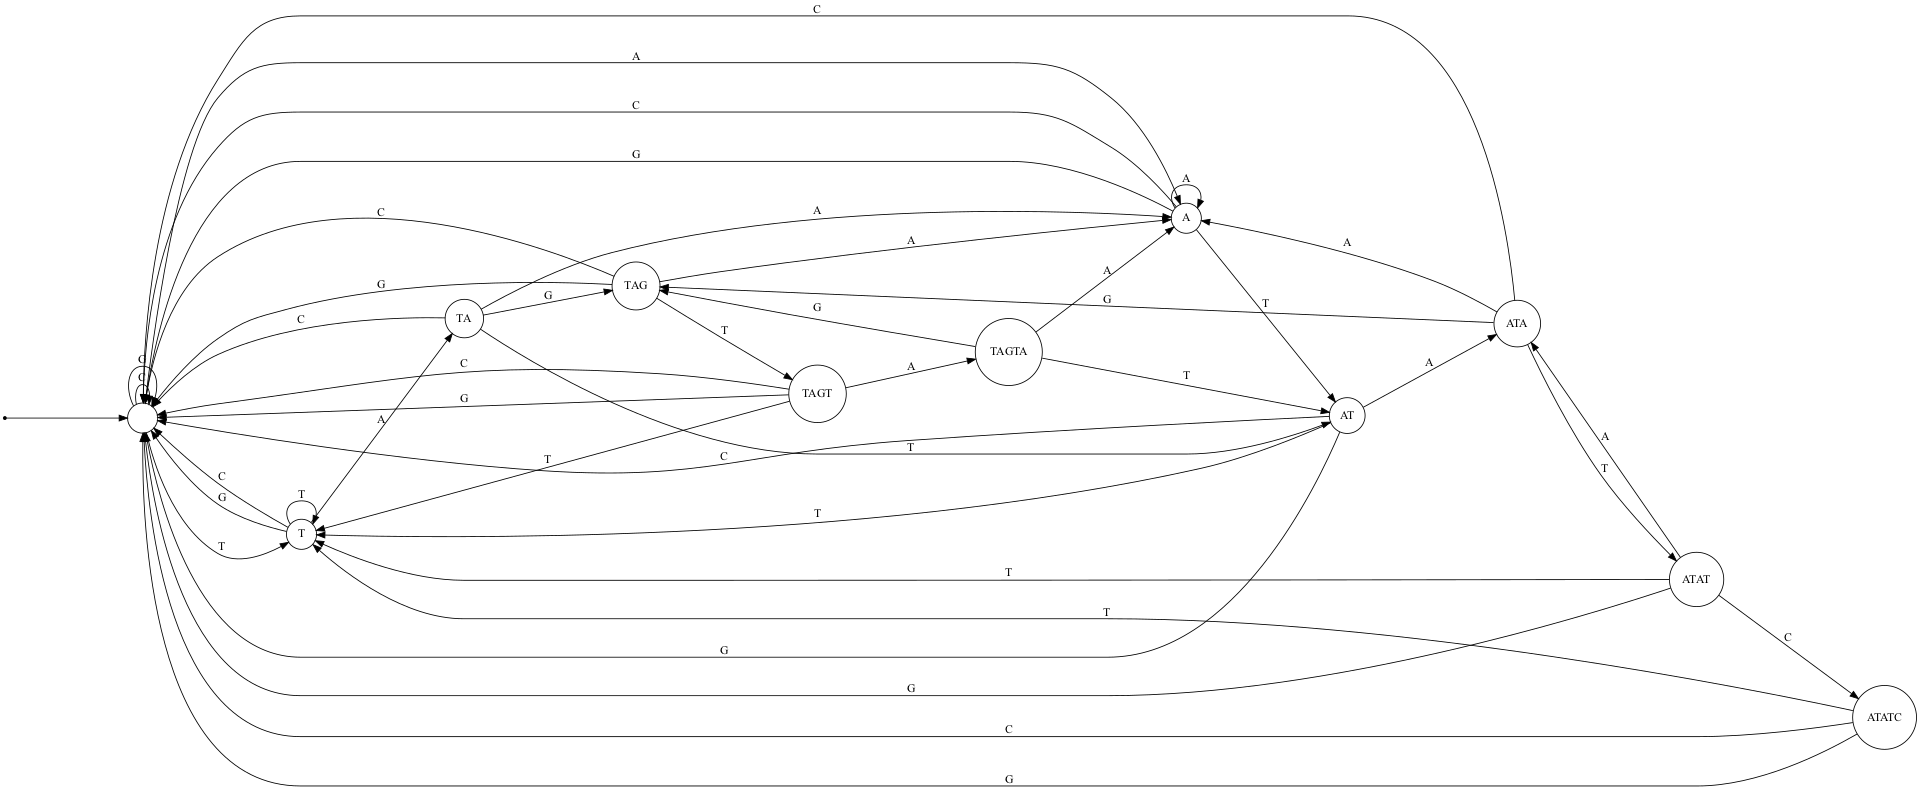
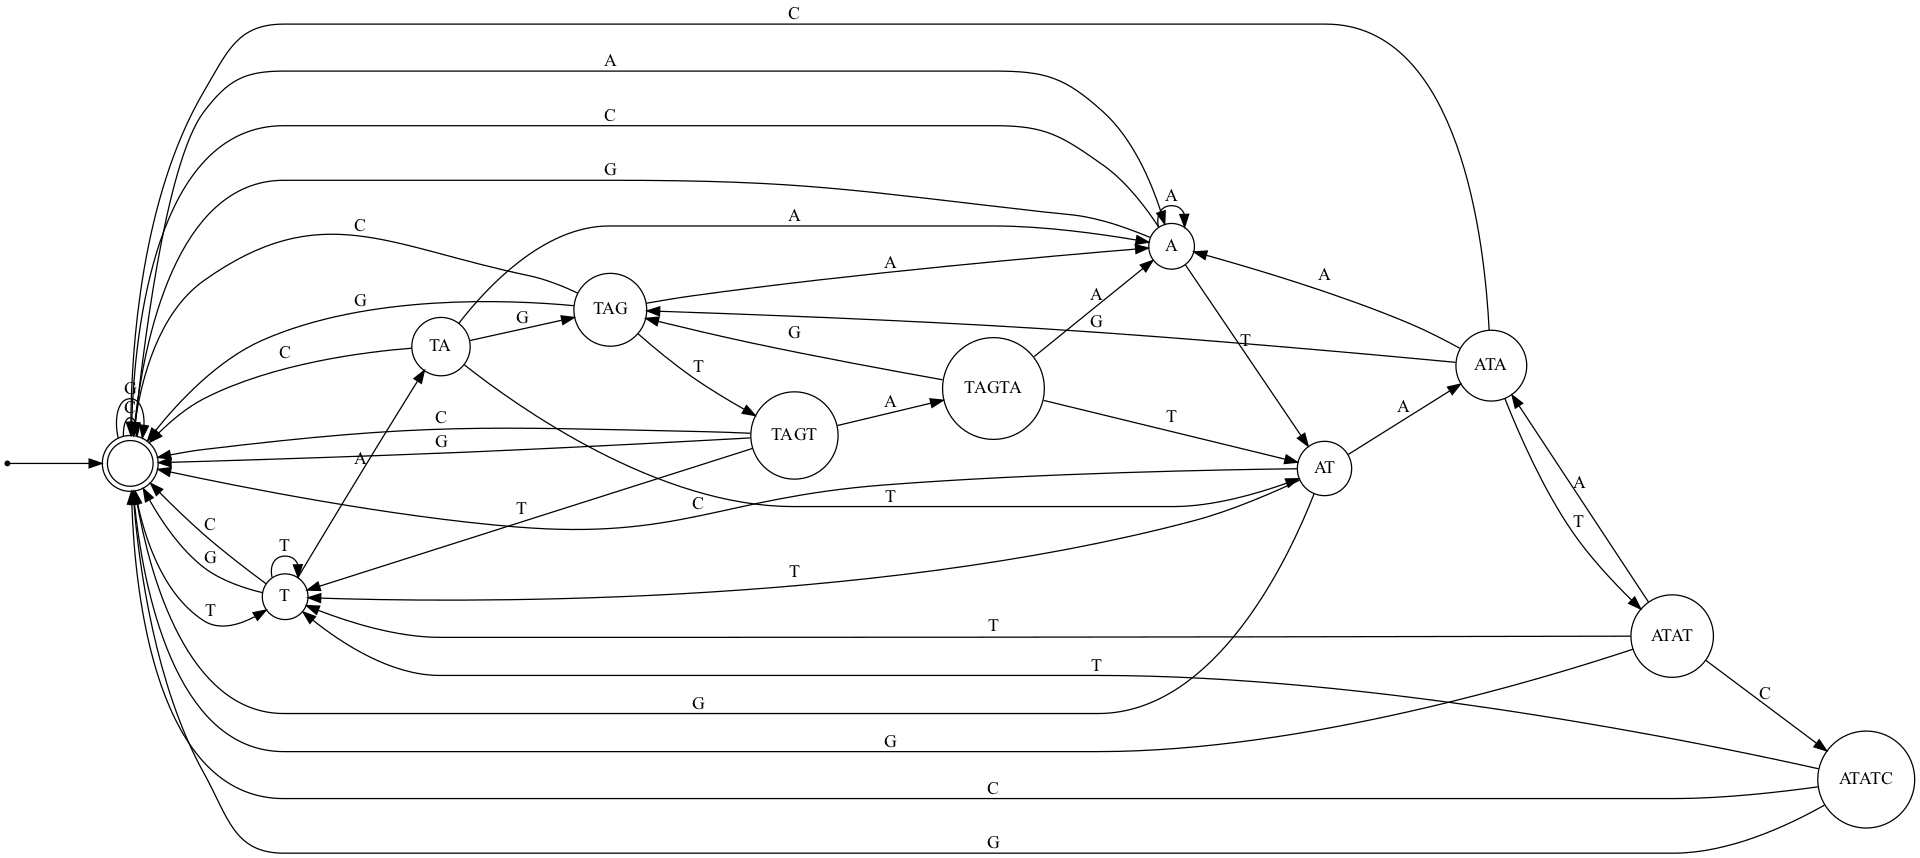
fix fsm

diff --git a/test/test_fsm.py b/test/test_fsm.py
@@ -1,0 +1,130 @@
+import unittest
+from algorithm.fsm import FSM
+import pprint
+
+
+class TestCalculateFSM(unittest.TestCase):
+    def setUp(self):
+        # Mock data for testing
+        self.alphabet = {'A', 'C', 'G', 'T'}
+        self.unwanted_patterns = {'ATATCA', 'TAGTAC'}
+
+    def test_fsm_transitions(self):
+        fsm = FSM(self.unwanted_patterns, self.alphabet)
+        expected_transitions = {('AA', 'A'): 'AA',
+                                ('AA', 'C'): 'AC',
+                                ('AA', 'G'): 'AG',
+                                ('AA', 'T'): 'AT',
+
+                                ('AC', 'A'): 'CA',
+                                ('AC', 'C'): 'CC',
+                                ('AC', 'G'): 'CG',
+                                ('AC', 'T'): 'CT',
+
+                                ('AG', 'A'): 'GA',
+                                ('AG', 'C'): 'GC',
+                                ('AG', 'G'): 'GG',
+                                ('AG', 'T'): 'GT',
+
+                                ('AT', 'A'): 'ATA',
+                                ('AT', 'C'): 'TC',
+                                ('AT', 'G'): 'TG',
+                                ('AT', 'T'): 'TT',
+
+                                ('ATA', 'A'): 'AA',
+                                ('ATA', 'C'): 'AC',
+                                ('ATA', 'G'): 'TAG',
+                                ('ATA', 'T'): 'ATAT',
+
+                                ('ATAT', 'A'): 'ATA',
+                                ('ATAT', 'C'): 'ATATC',
+                                ('ATAT', 'G'): 'TG',
+                                ('ATAT', 'T'): 'TT',
+
+                                ('ATATC', 'A'): None,
+                                ('ATATC', 'C'): 'CC',
+                                ('ATATC', 'G'): 'CG',
+                                ('ATATC', 'T'): 'CT',
+
+                                ('CA', 'A'): 'AA',
+                                ('CA', 'C'): 'AC',
+                                ('CA', 'G'): 'AG',
+                                ('CA', 'T'): 'AT',
+
+                                ('CC', 'A'): 'CA',
+                                ('CC', 'C'): 'CC',
+                                ('CC', 'G'): 'CG',
+                                ('CC', 'T'): 'CT',
+
+                                ('CG', 'A'): 'GA',
+                                ('CG', 'C'): 'GC',
+                                ('CG', 'G'): 'GG',
+                                ('CG', 'T'): 'GT',
+
+                                ('CT', 'A'): 'TA',
+                                ('CT', 'C'): 'TC',
+                                ('CT', 'G'): 'TG',
+                                ('CT', 'T'): 'TT',
+
+                                ('GA', 'A'): 'AA',
+                                ('GA', 'C'): 'AC',
+                                ('GA', 'G'): 'AG',
+                                ('GA', 'T'): 'AT',
+
+                                ('GC', 'A'): 'CA',
+                                ('GC', 'C'): 'CC',
+                                ('GC', 'G'): 'CG',
+                                ('GC', 'T'): 'CT',
+
+                                ('GG', 'A'): 'GA',
+                                ('GG', 'C'): 'GC',
+                                ('GG', 'G'): 'GG',
+                                ('GG', 'T'): 'GT',
+
+                                ('GT', 'A'): 'TA',
+                                ('GT', 'C'): 'TC',
+                                ('GT', 'G'): 'TG',
+                                ('GT', 'T'): 'TT',
+
+                                ('TA', 'A'): 'AA',
+                                ('TA', 'C'): 'AC',
+                                ('TA', 'G'): 'TAG',
+                                ('TA', 'T'): 'AT',
+
+                                ('TAG', 'A'): 'GA',
+                                ('TAG', 'C'): 'GC',
+                                ('TAG', 'G'): 'GG',
+                                ('TAG', 'T'): 'TAGT',
+
+                                ('TAGT', 'A'): 'TAGTA',
+                                ('TAGT', 'C'): 'TC',
+                                ('TAGT', 'G'): 'TG',
+                                ('TAGT', 'T'): 'TT',
+
+                                ('TAGTA', 'A'): 'AA',
+                                ('TAGTA', 'C'): None,
+                                ('TAGTA', 'G'): 'TAG',
+                                ('TAGTA', 'T'): 'AT',
+
+                                ('TC', 'A'): 'CA',
+                                ('TC', 'C'): 'CC',
+                                ('TC', 'G'): 'CG',
+                                ('TC', 'T'): 'CT',
+
+                                ('TG', 'A'): 'GA',
+                                ('TG', 'C'): 'GC',
+                                ('TG', 'G'): 'GG',
+                                ('TG', 'T'): 'GT',
+
+                                ('TT', 'A'): 'TA',
+                                ('TT', 'C'): 'TC',
+                                ('TT', 'G'): 'TG',
+                                ('TT', 'T'): 'TT'}
+
+        self.assertTrue(len(fsm.pair_states) == 16)
+        self.assertTrue(len(fsm.V) == 22)
+        self.assertTrue(len(fsm.f) == len(fsm.V) * len(fsm.sigma))
+
+        for key, expected_value in expected_transitions.items():
+            if key not in fsm.f or fsm.f[key] != expected_value:
+                self.fail(f"FSM transition mismatches:\n{(key, expected_value)}")

diff --git a/utils/fsm_utils.py b/utils/fsm_utils.py
@@ -2,53 +2,68 @@ from graphviz import Digraph
 import pandas as pd
 import matplotlib.pyplot as plt
 
-
-def visualize_fsm(states, transitions, initial_state, output_file='fsm_diagram', size="25,20", nodesep=0.3, ranksep=2.0):
-    """
-    Visualizes the FSM using Graphviz.
-
-    Args:
-        states (list): List of states in the FSM.
-        transitions (dict): Transition function (state, character) -> new state.
-        initial_state (str): The initial state of the FSM.
-        output_file (str): The name of the output file for the diagram (without extension).
-        size (str): Size of the diagram (width,height) in inches.
-        nodesep (float): Spacing between adjacent nodes.
-        ranksep (float): Spacing between ranks of nodes.
-    """
-    fsm_graph = Digraph(format='png')
-    fsm_graph.attr(rankdir='LR', size=size, nodesep=str(nodesep), ranksep=str(ranksep))  # Adjust size and spacing
-
-    # Add nodes (states)
-    for state in states:
-        shape = 'doublecircle' if state is None else 'circle'  # Highlight final states
-        fsm_graph.node(str(state), shape=shape)
-
-    # Add initial state marker
-    fsm_graph.node("start", shape="point")  # Invisible starting point
-    fsm_graph.edge("start", initial_state)
-
-    # Add transitions
-    for (state, char), next_state in transitions.items():
-        if next_state is not None:  # Exclude transitions leading to invalid states
-            fsm_graph.edge(str(state), str(next_state), label=char)
-
-    # Render the FSM diagram
-    fsm_graph.render(output_file, cleanup=True)
-    print(f"FSM diagram saved as {output_file}.png")
-
+# def visualize_fsm(states, transitions, initial_state, output_file='fsm_diagram', size="20,20", nodesep=0.2, ranksep=1.0):
+#     """
+#     Visualizes the FSM using Graphviz.
+#
+#     Args:
+#         states (list): List of states in the FSM.
+#         transitions (dict): Transition function (state, character) -> new state.
+#         initial_state (str): The initial state of the FSM.
+#         output_file (str): The name of the output file for the diagram (without extension).
+#         size (str): Size of the diagram (width,height) in inches.
+#         nodesep (float): Spacing between adjacent nodes.
+#         ranksep (float): Spacing between ranks of nodes.
+#     """
+#     fsm_graph = Digraph(format='png')
+#     fsm_graph.attr(rankdir='LR', size=size, nodesep=str(nodesep), ranksep=str(ranksep))  # Adjust size and spacing
+#
+#     # Add nodes (states)
+#     for state in states:
+#         shape = 'doublecircle' if state is '' else 'circle'  # Highlight final states
+#         fsm_graph.node(str(state), shape=shape)
+#
+#     # Add initial state marker
+#     fsm_graph.node("start", shape="point")  # Invisible starting point
+#     fsm_graph.edge("start", initial_state)
+#
+#     # Add transitions
+#     for (state, char), next_state in transitions.items():
+#         if next_state is not None:  # Exclude transitions leading to invalid states
+#             fsm_graph.edge(str(state), str(next_state), label=char)
+#
+#     # Render the FSM diagram
+#     fsm_graph.render(output_file, cleanup=True)
+#     print(f"FSM diagram saved as {output_file}.png")
 
 
-def save_fsm_table_as_image(states, transitions, initial_state, output_file="fsm_table_v1.png"):
-    headers = ["State", "Initial"] + sorted(set(char for (_, char) in transitions.keys()))
+import pandas as pd
+import matplotlib.pyplot as plt
+
+
+def save_fsm_table_as_image(states, transitions, output_file="fsm_table.png"):
+    if not states or not transitions:  # Check if states/transitions are empty
+        print("Warning: FSM states or transitions are empty. No table will be generated.")
+        return
+
+    # # Sort states first by length, then alphabetically
+    # states = sorted(states, key=lambda x: (len(x), x))
+
+    # Get the unique characters from transitions for table headers
+    headers = ["State"] + sorted(set(char for (_, char) in transitions.keys()))
     table = []
 
+    # Build the table rows
     for state in states:
-        row = [state, "Yes" if state == initial_state else "No"]
-        for char in headers[2:]:
-            next_state = transitions.get((state, char), "-")
-            row.append(next_state if next_state is not None else "-")
+        row = [state]
+        for char in headers[1:]:
+            next_state = transitions.get((state, char), None)
+            row.append(next_state if next_state is not None else "Invalid")
         table.append(row)
+
+    if not table:  # Extra safeguard
+        print("Warning: No valid FSM transitions to display.")
+        return
 
     # Convert to DataFrame
     df = pd.DataFrame(table, columns=headers)

diff --git a/algorithm/fsm.py b/algorithm/fsm.py
@@ -1,4 +1,5 @@
 from collections import deque
+from itertools import product
 
 
 def kmp_based_fsm(unwanted_patterns, sigma):
@@ -53,6 +54,51 @@ def kmp_based_fsm(unwanted_patterns, sigma):
     return epsilon, states, f, g
 
 
+def pairwise_kmp_fsm(unwanted_patterns, sigma):
+    """
+    Constructs the FSM by calculating the states and transition function.
+
+    Args:
+        unwanted_patterns (set): The set of unwanted patterns.
+        sigma (list): The alphabet of allowed characters.
+
+    Returns:
+        pair_states (set): The set of pairwise bases in the FSM.
+        states (set): The full state space of the FSM.
+        f (dict): The transition function of the FSM.
+    """
+
+    # Initialize dictionaries for the transition (f) and failure (g) functions
+    f = {}
+    states = set()
+
+    # Generate all bigrams from the alphabet
+    pair_states = [x + y for x in sigma for y in sigma]
+
+    # Initialize states based on bigrams instead of '' (empty string), A, T
+    for v in pair_states:
+        for s in sigma:
+            if (v, s) not in f:
+                f[(v, s)] = v[-1] + s
+                states.add(v)
+
+    # Prefix elongation and invalid transitions
+    for p in unwanted_patterns:
+        for j in range(3, len(p) + 1):
+            f[(p[:j - 1], p[j - 1])] = p[:j]
+            states.add(p[:j - 1])
+        f[(p[:- 1], p[- 1])] = None  # Invalid transition into complete pattern
+
+    for v in states:
+        for s in sigma:
+            if (v, s) not in f:
+                f[(v, s)] = v[-1:] + s
+            if v[-2:] + s in states:
+                f[(v, s)] = v[-2:] + s
+
+    return pair_states, states, f
+
+
 class FSM:
     """
     A class representing a finite state machine (FSM) for eliminating unwanted patterns from a sequence.
@@ -80,6 +126,7 @@ class FSM:
         self.sigma = alphabet
         self.unwanted_patterns = unwanted_patterns
 
-        self.initial_state, self.V, self.f, self.g = kmp_based_fsm(self.unwanted_patterns, self.sigma)
+        # self.initial_states, self.V, self.f, self.g = kmp_based_fsm(self.unwanted_patterns, self.sigma)
+        self.pair_states, self.V, self.f = pairwise_kmp_fsm(self.unwanted_patterns, self.sigma)
 
 

diff --git a/algorithm/eliminate_sequence.py b/algorithm/eliminate_sequence.py
@@ -6,7 +6,7 @@ from settings.costs_settings import elimination_process_description, coding_regi
 from utils.cost_utils import EliminationScorerConfig
 from utils.date_utils import format_current_date
 from utils.text_utils import format_text_bold_for_output
-from utils.fsm_utils import visualize_fsm, save_fsm_table_as_image
+from utils.fsm_utils import save_fsm_table_as_image
 from data.app_data import CostData
 
 
@@ -30,16 +30,8 @@ class EliminationController:
         cost_function = elimination_utils.cost_function(target_sequence, coding_positions, CostData.codon_usage, CostData.alpha, CostData.beta, CostData.w)
         fsm = FSM(unwanted_patterns, elimination_utils.alphabet)
 
-        visualize_fsm(fsm.V, fsm.f, fsm.initial_state)
-        save_fsm_table_as_image(fsm.V, fsm.f, fsm.initial_state)
-
-        # print("\nTransition Function (f):")
-        # for key, value in fsm.f.items():
-        #     print(f"f{key} -> {value}")
-        #
-        # print("\nFailure Function (g):")
-        # for key, value in fsm.g.items():
-        #     print(f"g({key}) -> {value}")
+        # visualize_fsm(fsm.V, fsm.f, fsm.initial_state)\
+        save_fsm_table_as_image(fsm.V, fsm.f)
 
         # Dynamic programming table A, initialized with infinity
         A = defaultdict(lambda: float('inf'))
